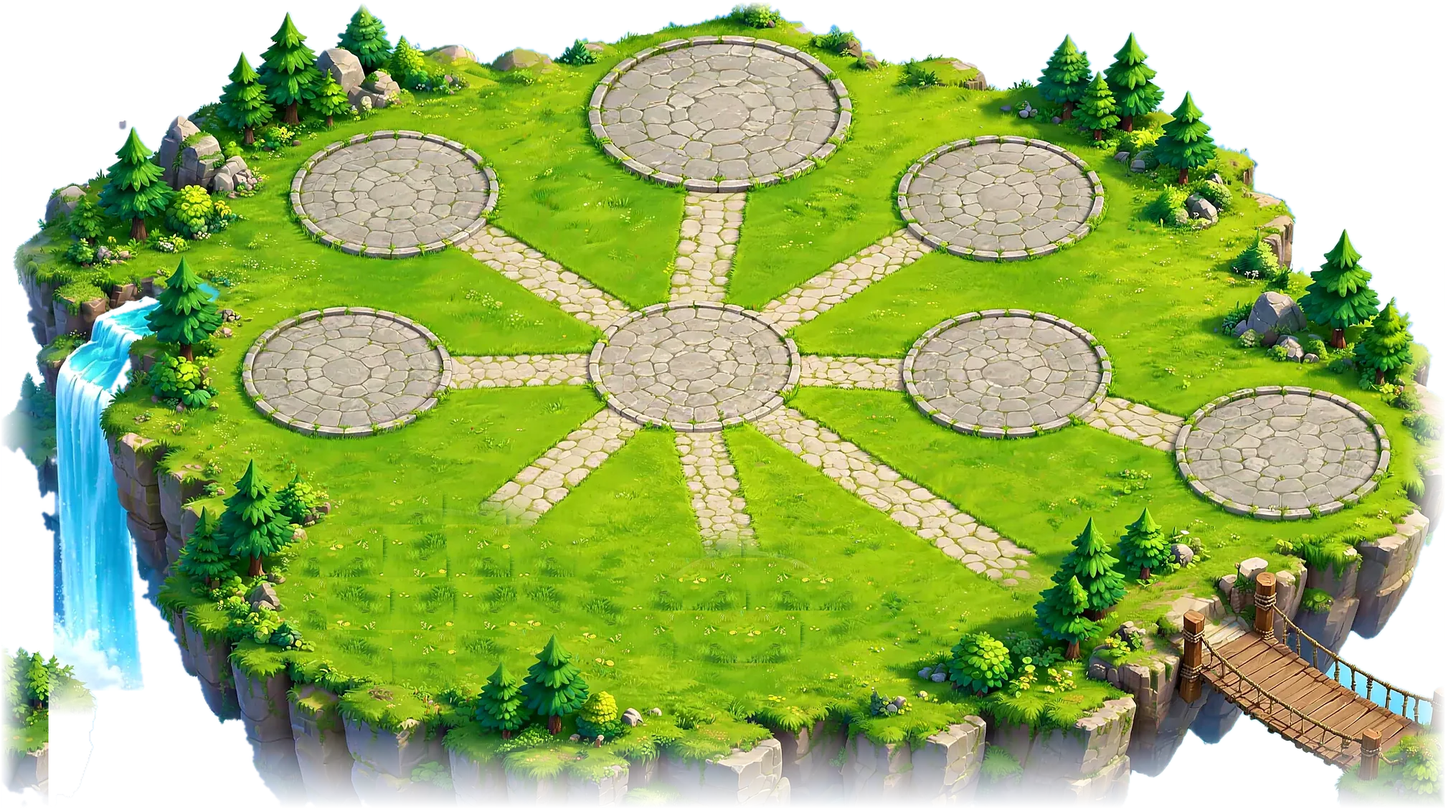
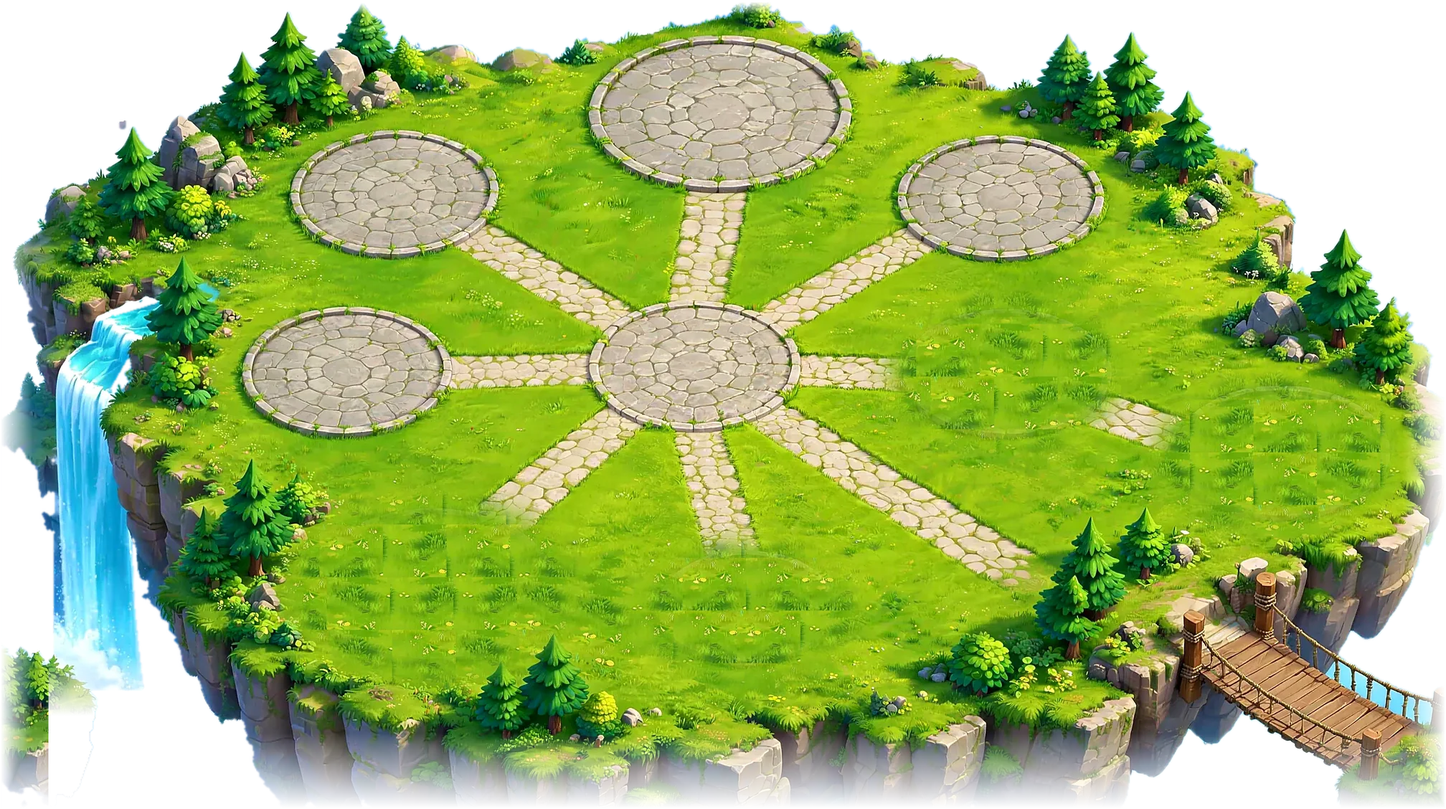
不分日夜；農田移到右邊蓋住兩個地基，牧場在旁邊，原農田位置改成萌獸園；布告欄移到噴水池旁
Claude-Session: https://claude.ai/code/session_011E9LWKbRev5CpXJ2t3WaU7

Changed region(s): [[0.5938, 0.3723, 0.9688, 0.6516]]

diff --git a/index.html b/index.html
@@ -504,7 +504,7 @@ $('ov').addEventListener('click', e=>{ if(e.target.id==='ov') closeModal(); });
 
 
 /* ================= 小鎮地圖：斜角座標 ================= */
-const TW=72, TH=36, OX=640, OY=278.8, VX=-90, VY=-70, WW=1780, WH=1030, IW=1600, IH=895.2;
+const TW=72, TH=36, OX=1268, OY=126.8, VX=-90, VY=-70, WW=1780, WH=1030, IW=1600, IH=895.2;
 const IS=1600/1344; // 萌獸主頁座標(1344寬)→世界座标
 const W2G=(x,y)=>{ const a=(x-OX)/(TW/2), b=(y-OY)/(TH/2); return [(a+b)/2,(b-a)/2]; };
 const HG=(x,y)=>W2G(x*IS,y*IS); // 萌獸主頁座標→格座標
@@ -551,7 +551,8 @@ const BLD = [
   {id:'shop',  name:'種子商店', img:'b_shop',     c:HG(366,200),  w:230, foot:0.80},
   {id:'barn',  name:'穀倉',     img:'b_farm',     c:HG(930,203),  w:240, foot:0.80},
   {id:'decor', name:'裝飾店',   img:'bc_shop',    c:HG(322,362),  w:200, foot:0.80, locked:'裝飾店將在第四階段開放'},
-  {id:'coop',  name:'牧場',     img:'dc_hay',     c:HG(1170,410), w:96,  foot:0.78, locked:'牧場將在第四階段開放'},
+  {id:'coop',  name:'牧場',     img:'dc_hay',     c:HG(694,560), w:104, foot:0.78, locked:'牧場將在第四階段開放'},
+  {id:'pen',   name:'萌獸園', skip:true, locked:'萌獸園即將開放：之後多出來的萌獸會住在這裡'},
 ];
 
 // 描邊：把向量圖形加上粗咖啡色外框，統一成手繪風
@@ -706,11 +707,27 @@ function buildWorld(){
   ground += fence(4.1,6.5,14.25,6.5,'#D9B98A') + fence(4.1,6.5,4.1,11.85,'#D9B98A');
   objs.push({depth:4.1+11.85+14.25+0.2, svg: fence(4.1,11.85,14.25,11.85,'#D9B98A') + fence(14.25,6.5,14.25,11.85,'#D9B98A')});
 
-  // 牧場（放在右側地基上）
-  const RC=HG(1190,420), RX=RC[0]-1.3, RY=RC[1]-1.3, RW=2.6, RD=2.6;
+  // 圍欄草地（後兩邊畫在地面層，前兩邊依深度排序）
+  const pen=(x,y,w,d,col,base,gate)=>{ ground += poly(dia(x,y,w,d),base,`stroke="${INK}" stroke-width="2" stroke-linejoin="round"`);
+    if(gate){ const g0=x+w/2-0.45, g1=x+w/2+0.45; ground += fence(x,y,g0,y,col) + fence(g1,y,x+w,y,col); } else ground += fence(x,y,x+w,y,col);
+    ground += fence(x,y,x,y+d,col);
+    objs.push({depth:x+w+y+d+0.2, svg: fence(x,y+d,x+w,y+d,col) + fence(x+w,y,x+w,y+d,col)}); };
+  // 牧場（農田左邊、島的下方中間）
+  const RC=HG(694,556), RW=3.0, RD=3.0, RX=RC[0]-RW/2, RY=RC[1]-RD/2;
+  pen(RX,RY,RW,RD,'#E8D3A2','#A8D46E');
+  { const [tx,ty]=iso(RX+RW-0.7, RY+0.6); objs.push({depth:RX+RW+RY, svg: ol(`<path d="M${tx-22} ${ty-6} l22 -11 l22 11 l-22 11z" fill="#8B5E3C"/><path d="M${tx-18} ${ty-6} l18 -9 l18 9 l-18 9z" fill="#F4D35E"/>`,2)}); }
+  // 萌獸園（原本農田的位置，之後多的萌獸住這裡）
+  const YC=HG(398,540), YW=3.6, YD=3.6, YX=YC[0]-YW/2, YY=YC[1]-YD/2;
+  objs.push({depth:-1, svg:`<g class="tap" data-b="pen"><polygon points="${P(dia(YX,YY,YW,YD))}" fill="rgba(0,0,0,0)"/></g>`});
+  pen(YX,YY,YW,YD,'#F3E3BF','#B6DE7E',true);
+  { const a=iso(YX+YW/2-0.45,YY), b=iso(YX+YW/2+0.45,YY), m=[(a[0]+b[0])/2,(a[1]+b[1])/2-58];
+    ground += ol(`<rect x="${a[0]-4}" y="${a[1]-52}" width="8" height="52" rx="3" fill="#A86F45"/><rect x="${b[0]-4}" y="${b[1]-52}" width="8" height="52" rx="3" fill="#A86F45"/>`,2)
+      + `<path d="M${a[0]} ${a[1]-50} Q${m[0]} ${m[1]-22} ${b[0]} ${b[1]-50}" stroke="${INK}" stroke-width="9" fill="none" stroke-linecap="round"/><path d="M${a[0]} ${a[1]-50} Q${m[0]} ${m[1]-22} ${b[0]} ${b[1]-50}" stroke="#C98B5E" stroke-width="5" fill="none" stroke-linecap="round"/>`
+      + `<g transform="translate(${m[0]} ${m[1]})"><rect x="-30" y="-10" width="60" height="20" rx="6" fill="#FFF1DC" stroke="${INK}" stroke-width="2"/><text y="5" text-anchor="middle" font-size="12" font-weight="900" fill="#6B4A2E" font-family="Noto Sans TC,sans-serif">萌獸園</text></g>`;
+    const [wx,wy]=iso(YX+0.9, YY+YD-0.9); objs.push({depth:YX+YY+YD, svg: ol(`<ellipse cx="${wx}" cy="${wy}" rx="24" ry="11" fill="#9C6B43"/><ellipse cx="${wx}" cy="${wy-2}" rx="18" ry="7" fill="#7FD0F5"/>`,2)}); }
 
   // 建築
-  BLD.forEach(o=>{
+  BLD.forEach(o=>{ if(o.skip) return;
     const [gx,gy]=o.c, h=o.w*(RATIO[o.img]||1);
     let s = `<ellipse cx="${iso(gx,gy)[0]}" cy="${iso(gx,gy)[1]+4}" rx="${o.w*0.42}" ry="${o.w*0.16}" fill="rgba(0,0,0,.14)"/>` + sprite(o.img, gx, gy, o.w, {ratio:RATIO[o.img], foot:o.foot});
     if(o.id==='barn'){ // 風車葉片
@@ -722,14 +739,14 @@ function buildWorld(){
     const [lx,ly]=iso(gx,gy);
     lab += labelPill(lx, ly - h*o.foot + (o.id==='coop'?4:18), o.name, {locked:!!o.locked, bg:o.id==='shop'?'#FFF1DC':null});
   });
-  const BDc=HG(935,358); const bd=board(BDc[0],BDc[1]); objs.push({depth:bd.depth, svg:`<g class="tap" data-b="board"><g transform="translate(${iso(...BDc)[0]} ${iso(...BDc)[1]}) scale(1.5) translate(${-iso(...BDc)[0]} ${-iso(...BDc)[1]})">${bd.svg}</g></g>`});
+  const BDc=HG(790,305); const bd=board(BDc[0],BDc[1]); objs.push({depth:bd.depth, svg:`<g class="tap" data-b="board"><g transform="translate(${iso(...BDc)[0]} ${iso(...BDc)[1]}) scale(1.5) translate(${-iso(...BDc)[0]} ${-iso(...BDc)[1]})">${bd.svg}</g></g>`});
   lab += labelPill(iso(...BDc)[0], iso(...BDc)[1]-132, '好友布告欄', {bg:'#E3F6EA',fg:'#2E9660'});
 
   // 裝飾（萌獸星球素材）
   const deco=(n,gx,gy,w,extra='')=>objs.push({depth:gx+gy, svg:`<g ${extra}>${sprite(n,gx,gy,w,{ratio:RATIO[n],foot:0.8})}</g>`});
   const FC=HG(645,352); deco('b_fountain', FC[0], FC[1], 150);
   [[560,318],[730,318],[560,378],[730,378]].map(([x,y])=>HG(x,y)).forEach(([x,y])=>{ deco('dc_lamp',x,y,46); const [px,py]=iso(x,y); objs.push({depth:x+y+0.01, svg:`<circle class="lampglow" cx="${px}" cy="${py-34}" r="30" fill="url(#gGlow)"/>`}); });
-  deco('dc_flower', ...HG(505,262), 58); deco('dc_flower', ...HG(790,262), 58); deco('dc_balloon', ...HG(1040,560), 64, 'class="floaty"');
+  deco('dc_flower', ...HG(505,262), 58); deco('dc_flower', ...HG(845,300), 52); deco('dc_balloon', ...HG(545,470), 64, 'class="floaty"');
 
   // 田地（可點）
   PLOTS.forEach((_,i)=>{ objs.push({depth:PLOTS[i][0]+PLOTS[i][1]+PS, svg:`<g class="tap plot" data-p="${i}"><g class="pg"></g><g class="ps"></g></g>`}); });
@@ -763,7 +780,7 @@ function buildWorld(){
   const addMover=(html,o)=>{ const g=document.createElementNS('http://www.w3.org/2000/svg','g'); g.innerHTML=`<g class="mvin">${html}</g>`; mv.appendChild(g); movers.push(Object.assign({el:g,wait:0,face:1},o)); };
   const pet=(n,w)=>{ const h=w*(RATIO[n]||1); return `<ellipse cx="0" cy="1" rx="${w*0.32}" ry="${w*0.1}" fill="rgba(0,0,0,.16)"/><g class="hop"><image href="${A(n)}" x="${-w/2}" y="${-h*0.96}" width="${w}" height="${h}"/></g>`; };
   // 農場主人（用頭像做的人物，自己家＝自己，拜訪＝好友）
-  const C0=HG(645,395), WP=[[645,395],[470,250],[645,395],[668,215],[645,395],[860,255],[645,395],[935,395],[1120,440],[935,395],[645,395],[430,395],[645,395],[560,470]].map(([x,y])=>HG(x,y));
+  const C0=HG(645,395), WP=[[645,395],[470,250],[645,395],[668,215],[645,395],[860,255],[645,395],[790,345],[860,370],[790,345],[645,395],[430,395],[645,395],[520,440],[645,395],[690,470]].map(([x,y])=>HG(x,y));
   addMover('',{x:C0[0],y:C0[1],path:WP,tgt:1,speed:0.55,s:1.25,farmer:true});
   farmerMover=movers[movers.length-1]; farmerAv=null;
   for(let k=0;k<4;k++) addMover(CHICK,{x:RX+0.6+rnd()*(RW-1.2),y:RY+0.6+rnd()*(RD-1.0),chick:true,area:[RX+0.3,RY+0.3,RX+RW-0.3,RY+RD-0.3],speed:0.5,s:1.25,wait:rnd()*2});
@@ -982,17 +999,8 @@ function tweenNum(el, to){
 }
 
 /* ================= 日夜變化（依手機時間） ================= */
-function dayNight(){
-  let h = new Date().getHours() + new Date().getMinutes()/60;
-  const q = new URLSearchParams(location.search).get('hour'); if(q!==null) h = +q;
-  let tint='transparent', night=false;
-  if(h>=19 || h<5){ tint='rgba(52,62,140,.5)'; night=true; }
-  else if(h>=17){ tint='rgba(255,150,80,.28)'; night = h>=18.3; }
-  else if(h<7){ tint='rgba(255,190,160,.25)'; night = h<6; }
-  $('tint').style.background = tint;
-  document.body.classList.toggle('night', night);
-}
-dayNight(); setInterval(dayNight, 60000);
+function dayNight(){ $('tint').style.background='transparent'; document.body.classList.remove('night'); }  // 不分日夜：永遠白天
+dayNight();
 
 /* ================= 頭像 ================= */
 const avSrc = n => `assets/av${n||11}.webp`;

diff --git a/src/town.js b/src/town.js
@@ -1,6 +1,6 @@
 
 /* ================= 小鎮地圖：斜角座標 ================= */
-const TW=72, TH=36, OX=640, OY=278.8, VX=-90, VY=-70, WW=1780, WH=1030, IW=1600, IH=895.2;
+const TW=72, TH=36, OX=1268, OY=126.8, VX=-90, VY=-70, WW=1780, WH=1030, IW=1600, IH=895.2;
 const IS=1600/1344; // 萌獸主頁座標(1344寬)→世界座标
 const W2G=(x,y)=>{ const a=(x-OX)/(TW/2), b=(y-OY)/(TH/2); return [(a+b)/2,(b-a)/2]; };
 const HG=(x,y)=>W2G(x*IS,y*IS); // 萌獸主頁座標→格座標
@@ -47,7 +47,8 @@ const BLD = [
   {id:'shop',  name:'種子商店', img:'b_shop',     c:HG(366,200),  w:230, foot:0.80},
   {id:'barn',  name:'穀倉',     img:'b_farm',     c:HG(930,203),  w:240, foot:0.80},
   {id:'decor', name:'裝飾店',   img:'bc_shop',    c:HG(322,362),  w:200, foot:0.80, locked:'裝飾店將在第四階段開放'},
-  {id:'coop',  name:'牧場',     img:'dc_hay',     c:HG(1170,410), w:96,  foot:0.78, locked:'牧場將在第四階段開放'},
+  {id:'coop',  name:'牧場',     img:'dc_hay',     c:HG(694,560), w:104, foot:0.78, locked:'牧場將在第四階段開放'},
+  {id:'pen',   name:'萌獸園', skip:true, locked:'萌獸園即將開放：之後多出來的萌獸會住在這裡'},
 ];
 
 // 描邊：把向量圖形加上粗咖啡色外框，統一成手繪風
@@ -202,11 +203,27 @@ function buildWorld(){
   ground += fence(4.1,6.5,14.25,6.5,'#D9B98A') + fence(4.1,6.5,4.1,11.85,'#D9B98A');
   objs.push({depth:4.1+11.85+14.25+0.2, svg: fence(4.1,11.85,14.25,11.85,'#D9B98A') + fence(14.25,6.5,14.25,11.85,'#D9B98A')});
 
-  // 牧場（放在右側地基上）
-  const RC=HG(1190,420), RX=RC[0]-1.3, RY=RC[1]-1.3, RW=2.6, RD=2.6;
+  // 圍欄草地（後兩邊畫在地面層，前兩邊依深度排序）
+  const pen=(x,y,w,d,col,base,gate)=>{ ground += poly(dia(x,y,w,d),base,`stroke="${INK}" stroke-width="2" stroke-linejoin="round"`);
+    if(gate){ const g0=x+w/2-0.45, g1=x+w/2+0.45; ground += fence(x,y,g0,y,col) + fence(g1,y,x+w,y,col); } else ground += fence(x,y,x+w,y,col);
+    ground += fence(x,y,x,y+d,col);
+    objs.push({depth:x+w+y+d+0.2, svg: fence(x,y+d,x+w,y+d,col) + fence(x+w,y,x+w,y+d,col)}); };
+  // 牧場（農田左邊、島的下方中間）
+  const RC=HG(694,556), RW=3.0, RD=3.0, RX=RC[0]-RW/2, RY=RC[1]-RD/2;
+  pen(RX,RY,RW,RD,'#E8D3A2','#A8D46E');
+  { const [tx,ty]=iso(RX+RW-0.7, RY+0.6); objs.push({depth:RX+RW+RY, svg: ol(`<path d="M${tx-22} ${ty-6} l22 -11 l22 11 l-22 11z" fill="#8B5E3C"/><path d="M${tx-18} ${ty-6} l18 -9 l18 9 l-18 9z" fill="#F4D35E"/>`,2)}); }
+  // 萌獸園（原本農田的位置，之後多的萌獸住這裡）
+  const YC=HG(398,540), YW=3.6, YD=3.6, YX=YC[0]-YW/2, YY=YC[1]-YD/2;
+  objs.push({depth:-1, svg:`<g class="tap" data-b="pen"><polygon points="${P(dia(YX,YY,YW,YD))}" fill="rgba(0,0,0,0)"/></g>`});
+  pen(YX,YY,YW,YD,'#F3E3BF','#B6DE7E',true);
+  { const a=iso(YX+YW/2-0.45,YY), b=iso(YX+YW/2+0.45,YY), m=[(a[0]+b[0])/2,(a[1]+b[1])/2-58];
+    ground += ol(`<rect x="${a[0]-4}" y="${a[1]-52}" width="8" height="52" rx="3" fill="#A86F45"/><rect x="${b[0]-4}" y="${b[1]-52}" width="8" height="52" rx="3" fill="#A86F45"/>`,2)
+      + `<path d="M${a[0]} ${a[1]-50} Q${m[0]} ${m[1]-22} ${b[0]} ${b[1]-50}" stroke="${INK}" stroke-width="9" fill="none" stroke-linecap="round"/><path d="M${a[0]} ${a[1]-50} Q${m[0]} ${m[1]-22} ${b[0]} ${b[1]-50}" stroke="#C98B5E" stroke-width="5" fill="none" stroke-linecap="round"/>`
+      + `<g transform="translate(${m[0]} ${m[1]})"><rect x="-30" y="-10" width="60" height="20" rx="6" fill="#FFF1DC" stroke="${INK}" stroke-width="2"/><text y="5" text-anchor="middle" font-size="12" font-weight="900" fill="#6B4A2E" font-family="Noto Sans TC,sans-serif">萌獸園</text></g>`;
+    const [wx,wy]=iso(YX+0.9, YY+YD-0.9); objs.push({depth:YX+YY+YD, svg: ol(`<ellipse cx="${wx}" cy="${wy}" rx="24" ry="11" fill="#9C6B43"/><ellipse cx="${wx}" cy="${wy-2}" rx="18" ry="7" fill="#7FD0F5"/>`,2)}); }
 
   // 建築
-  BLD.forEach(o=>{
+  BLD.forEach(o=>{ if(o.skip) return;
     const [gx,gy]=o.c, h=o.w*(RATIO[o.img]||1);
     let s = `<ellipse cx="${iso(gx,gy)[0]}" cy="${iso(gx,gy)[1]+4}" rx="${o.w*0.42}" ry="${o.w*0.16}" fill="rgba(0,0,0,.14)"/>` + sprite(o.img, gx, gy, o.w, {ratio:RATIO[o.img], foot:o.foot});
     if(o.id==='barn'){ // 風車葉片
@@ -218,14 +235,14 @@ function buildWorld(){
     const [lx,ly]=iso(gx,gy);
     lab += labelPill(lx, ly - h*o.foot + (o.id==='coop'?4:18), o.name, {locked:!!o.locked, bg:o.id==='shop'?'#FFF1DC':null});
   });
-  const BDc=HG(935,358); const bd=board(BDc[0],BDc[1]); objs.push({depth:bd.depth, svg:`<g class="tap" data-b="board"><g transform="translate(${iso(...BDc)[0]} ${iso(...BDc)[1]}) scale(1.5) translate(${-iso(...BDc)[0]} ${-iso(...BDc)[1]})">${bd.svg}</g></g>`});
+  const BDc=HG(790,305); const bd=board(BDc[0],BDc[1]); objs.push({depth:bd.depth, svg:`<g class="tap" data-b="board"><g transform="translate(${iso(...BDc)[0]} ${iso(...BDc)[1]}) scale(1.5) translate(${-iso(...BDc)[0]} ${-iso(...BDc)[1]})">${bd.svg}</g></g>`});
   lab += labelPill(iso(...BDc)[0], iso(...BDc)[1]-132, '好友布告欄', {bg:'#E3F6EA',fg:'#2E9660'});
 
   // 裝飾（萌獸星球素材）
   const deco=(n,gx,gy,w,extra='')=>objs.push({depth:gx+gy, svg:`<g ${extra}>${sprite(n,gx,gy,w,{ratio:RATIO[n],foot:0.8})}</g>`});
   const FC=HG(645,352); deco('b_fountain', FC[0], FC[1], 150);
   [[560,318],[730,318],[560,378],[730,378]].map(([x,y])=>HG(x,y)).forEach(([x,y])=>{ deco('dc_lamp',x,y,46); const [px,py]=iso(x,y); objs.push({depth:x+y+0.01, svg:`<circle class="lampglow" cx="${px}" cy="${py-34}" r="30" fill="url(#gGlow)"/>`}); });
-  deco('dc_flower', ...HG(505,262), 58); deco('dc_flower', ...HG(790,262), 58); deco('dc_balloon', ...HG(1040,560), 64, 'class="floaty"');
+  deco('dc_flower', ...HG(505,262), 58); deco('dc_flower', ...HG(845,300), 52); deco('dc_balloon', ...HG(545,470), 64, 'class="floaty"');
 
   // 田地（可點）
   PLOTS.forEach((_,i)=>{ objs.push({depth:PLOTS[i][0]+PLOTS[i][1]+PS, svg:`<g class="tap plot" data-p="${i}"><g class="pg"></g><g class="ps"></g></g>`}); });
@@ -259,7 +276,7 @@ function buildWorld(){
   const addMover=(html,o)=>{ const g=document.createElementNS('http://www.w3.org/2000/svg','g'); g.innerHTML=`<g class="mvin">${html}</g>`; mv.appendChild(g); movers.push(Object.assign({el:g,wait:0,face:1},o)); };
   const pet=(n,w)=>{ const h=w*(RATIO[n]||1); return `<ellipse cx="0" cy="1" rx="${w*0.32}" ry="${w*0.1}" fill="rgba(0,0,0,.16)"/><g class="hop"><image href="${A(n)}" x="${-w/2}" y="${-h*0.96}" width="${w}" height="${h}"/></g>`; };
   // 農場主人（用頭像做的人物，自己家＝自己，拜訪＝好友）
-  const C0=HG(645,395), WP=[[645,395],[470,250],[645,395],[668,215],[645,395],[860,255],[645,395],[935,395],[1120,440],[935,395],[645,395],[430,395],[645,395],[560,470]].map(([x,y])=>HG(x,y));
+  const C0=HG(645,395), WP=[[645,395],[470,250],[645,395],[668,215],[645,395],[860,255],[645,395],[790,345],[860,370],[790,345],[645,395],[430,395],[645,395],[520,440],[645,395],[690,470]].map(([x,y])=>HG(x,y));
   addMover('',{x:C0[0],y:C0[1],path:WP,tgt:1,speed:0.55,s:1.25,farmer:true});
   farmerMover=movers[movers.length-1]; farmerAv=null;
   for(let k=0;k<4;k++) addMover(CHICK,{x:RX+0.6+rnd()*(RW-1.2),y:RY+0.6+rnd()*(RD-1.0),chick:true,area:[RX+0.3,RY+0.3,RX+RW-0.3,RY+RD-0.3],speed:0.5,s:1.25,wait:rnd()*2});

diff --git a/src/fx.js b/src/fx.js
@@ -102,17 +102,8 @@ function tweenNum(el, to){
 }
 
 /* ================= 日夜變化（依手機時間） ================= */
-function dayNight(){
-  let h = new Date().getHours() + new Date().getMinutes()/60;
-  const q = new URLSearchParams(location.search).get('hour'); if(q!==null) h = +q;
-  let tint='transparent', night=false;
-  if(h>=19 || h<5){ tint='rgba(52,62,140,.5)'; night=true; }
-  else if(h>=17){ tint='rgba(255,150,80,.28)'; night = h>=18.3; }
-  else if(h<7){ tint='rgba(255,190,160,.25)'; night = h<6; }
-  $('tint').style.background = tint;
-  document.body.classList.toggle('night', night);
-}
-dayNight(); setInterval(dayNight, 60000);
+function dayNight(){ $('tint').style.background='transparent'; document.body.classList.remove('night'); }  // 不分日夜：永遠白天
+dayNight();
 
 /* ================= 頭像 ================= */
 const avSrc = n => `assets/av${n||11}.webp`;
